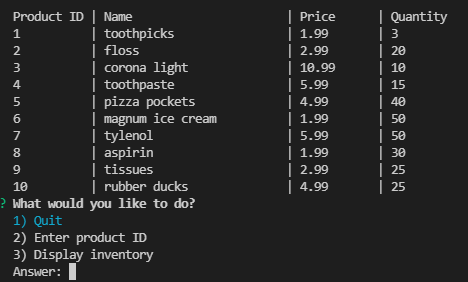
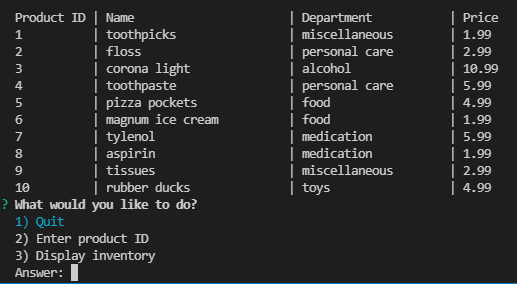
corrected screenshots

diff --git a/README.md b/README.md
@@ -2,7 +2,7 @@
 
 # Homework Description
 
-This program contacts product inventory database and displays the results as shown below including unique product id, product name, product price, and product quantity. Afterwards the user is prompted to either quit, enter product id, or display inventory.
+This program contacts product inventory database and displays the results as shown below including unique product id, product name, and product price. Afterwards the user is prompted to either quit, enter product id, or display inventory.
 
 ![product inventory](images/display_inventory.PNG)
 
